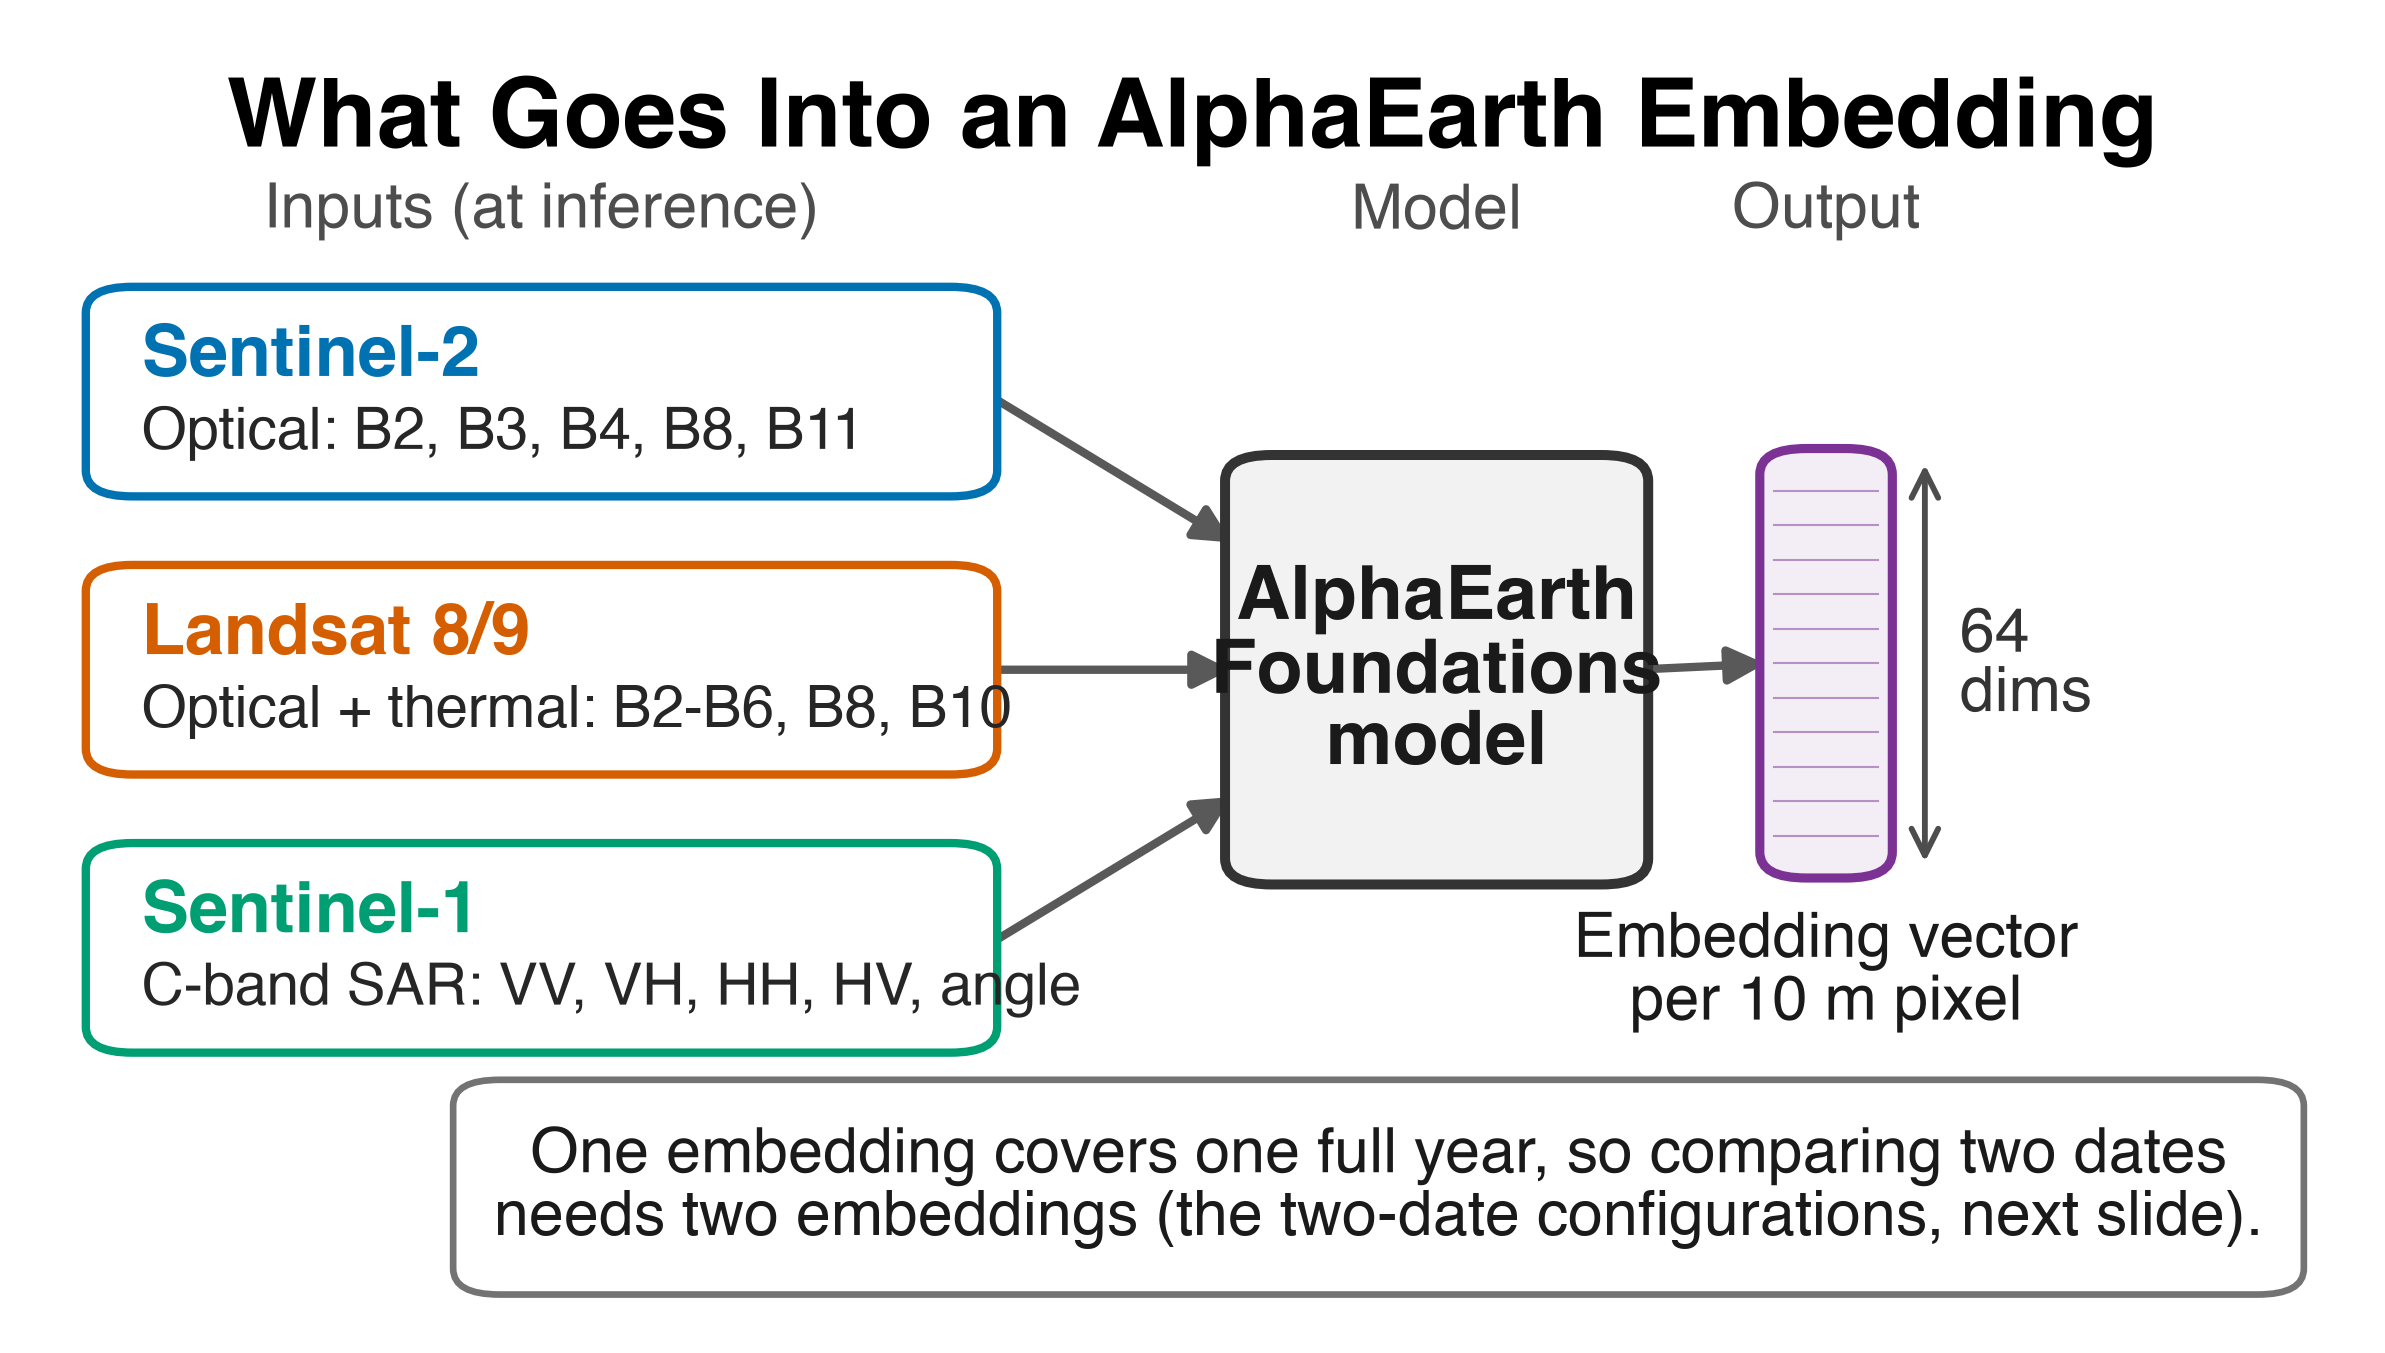
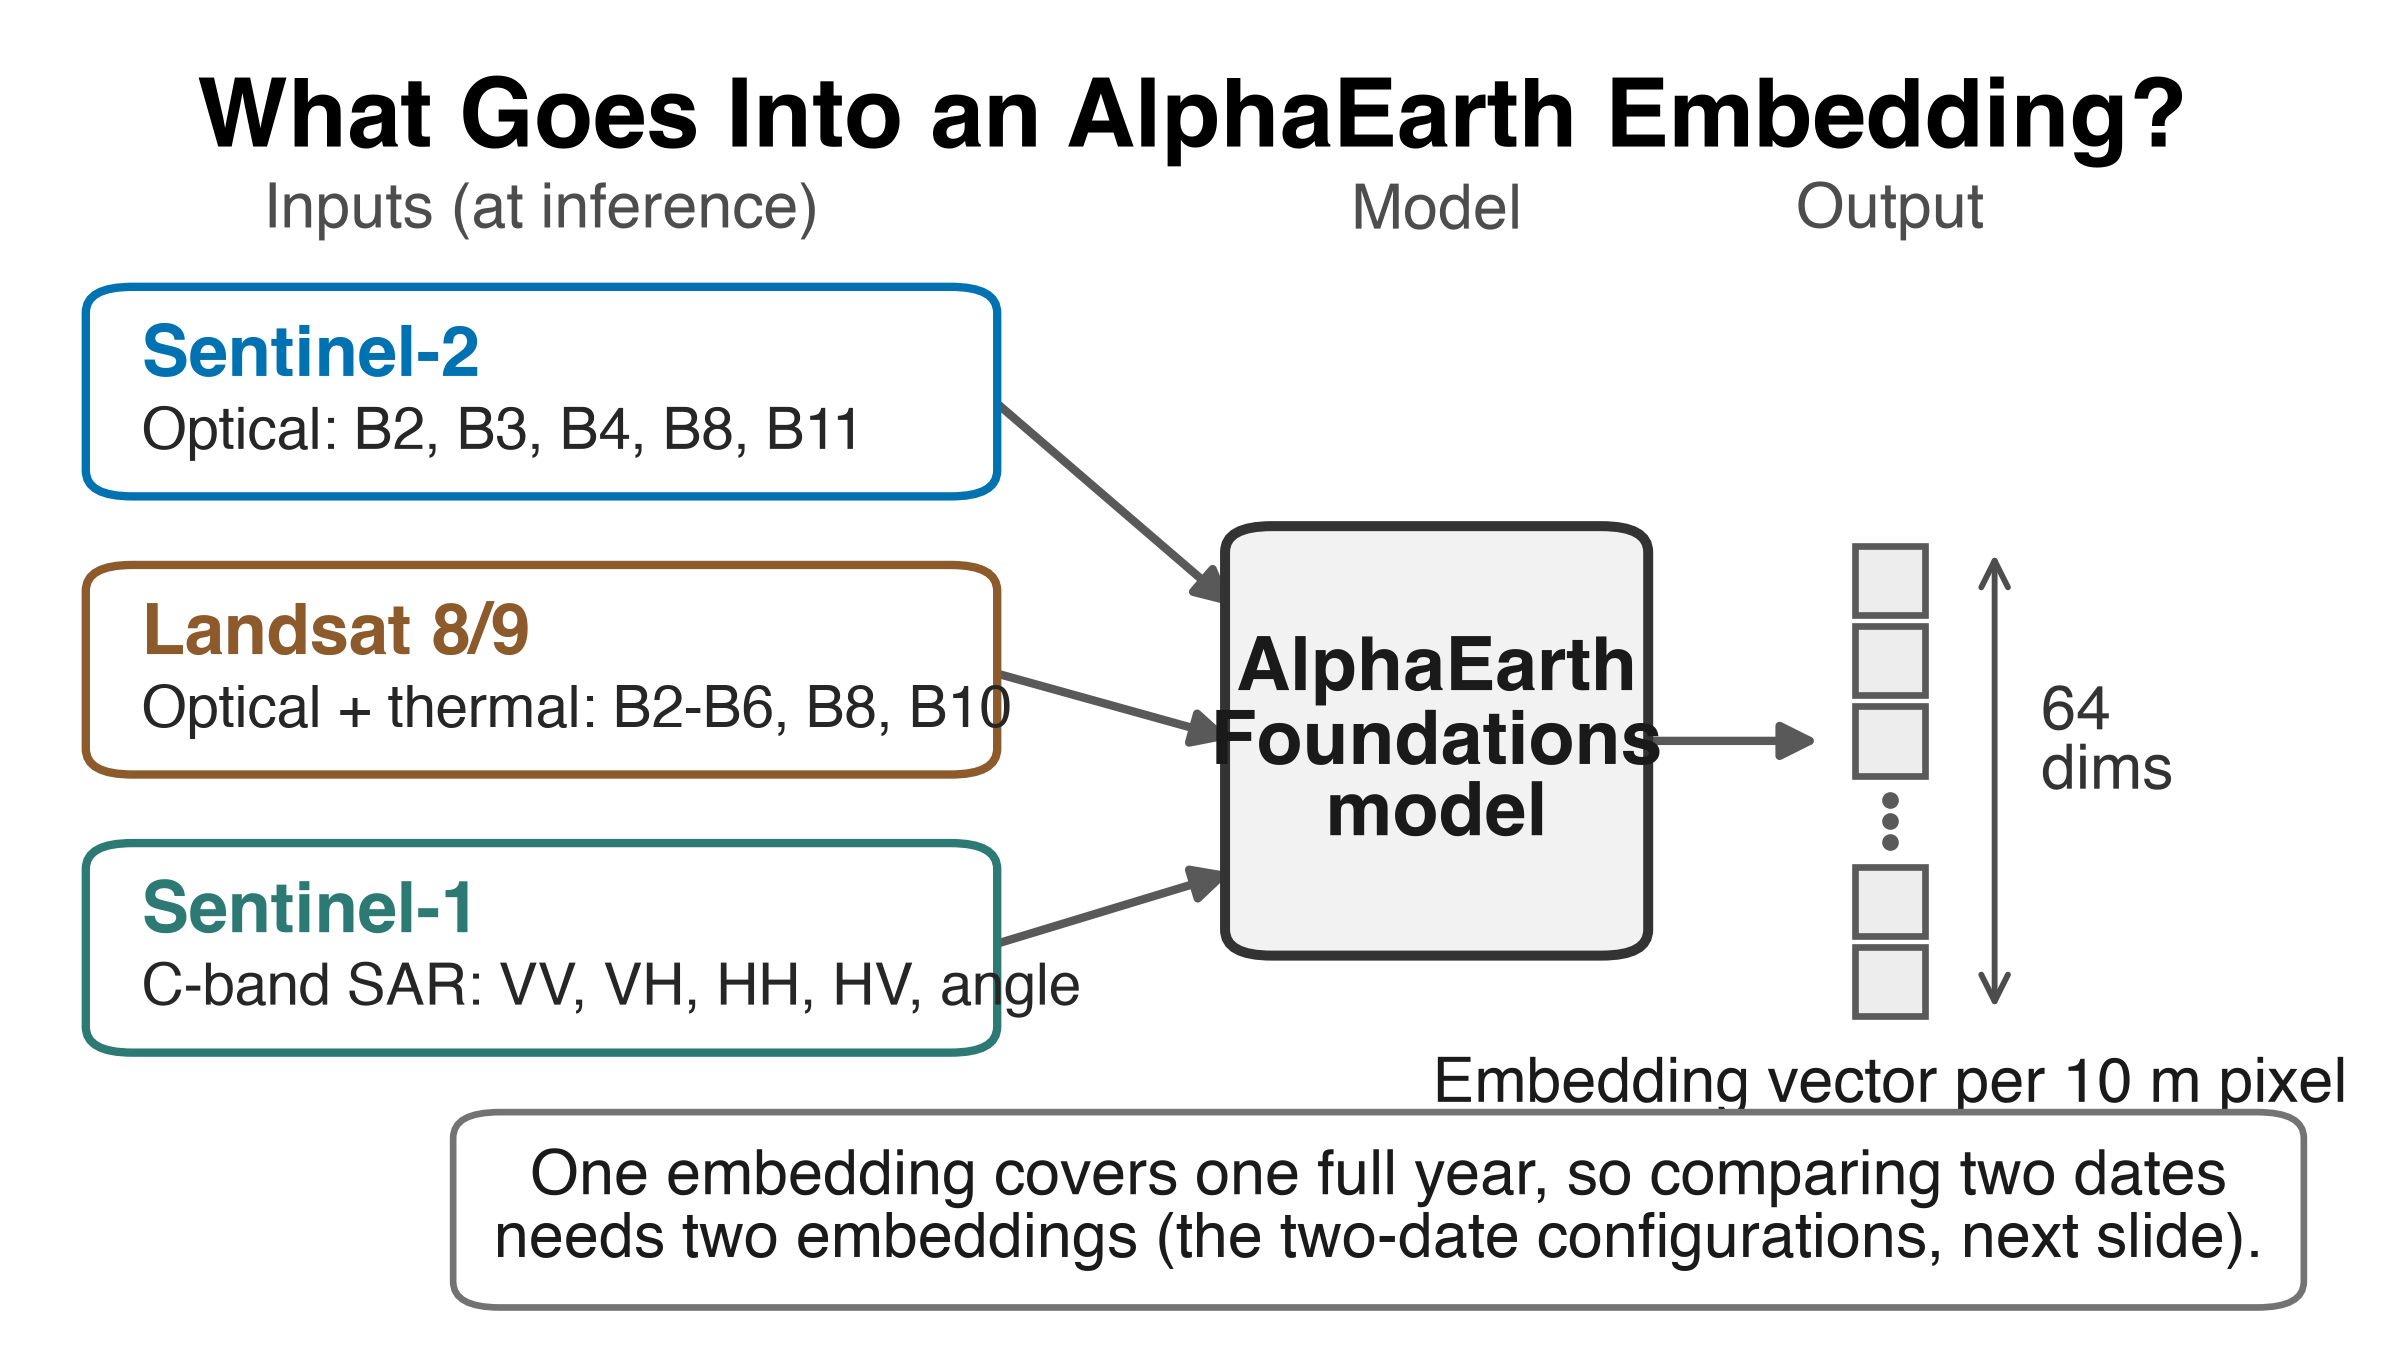
pres_03_aef_schematic: muted colors, stacked-square vector, lowered model/output
Mute the Landsat and Sentinel-1 box colors (keep the Sentinel-2 blue) and the
output color, add a question mark to the title, lower the model and output so
they sit closer to the lower input boxes, and replace the output column with
stacked squares (plus a vertical ellipsis) for the 64-D embedding vector.

diff --git a/presentation/scripts/pres_03_aef_schematic.py b/presentation/scripts/pres_03_aef_schematic.py
@@ -28,18 +28,21 @@ import os
 import matplotlib
 matplotlib.use("Agg")
 import matplotlib.pyplot as plt
-from matplotlib.patches import FancyBboxPatch, FancyArrowPatch
+from matplotlib.patches import FancyBboxPatch, FancyArrowPatch, Rectangle
 
 HERE = os.path.dirname(os.path.abspath(__file__))
 ROOT = os.path.dirname(os.path.dirname(HERE))
 OUT = os.path.join(ROOT, "presentation", "figures")
 
-# inference inputs, from Brown et al. 2025 Table S1 (rows tagged "input, target")
+# inference inputs, from Brown et al. 2025 Table S1 (rows tagged "input, target").
+# muted, colorblind-safe box colors (brown/teal from ColorBrewer BrBG); the top blue is kept
 INPUTS = [
     ("Sentinel-2", "Optical: B2, B3, B4, B8, B11", "#0072B2"),
-    ("Landsat 8/9", "Optical + thermal: B2-B6, B8, B10", "#D55E00"),
-    ("Sentinel-1", "C-band SAR: VV, VH, HH, HV, angle", "#009E73"),
+    ("Landsat 8/9", "Optical + thermal: B2-B6, B8, B10", "#8C5A2B"),
+    ("Sentinel-1", "C-band SAR: VV, VH, HH, HV, angle", "#2C7A73"),
 ]
+OUT_EDGE = "#5A5A5A"   # neutral grey for the output vector, muted rather than cartoonish
+OUT_FILL = "#EDEDED"
 # target-only sources from Table S1, excluded from the inputs (printed for the record)
 TARGET_ONLY = ["ALOS PALSAR (L-band SAR)", "Copernicus DEM", "GEDI (LiDAR)", "ERA5-Land (climate)",
                "GRACE (gravity)", "NLCD (land cover)", "Wikipedia (text)", "GBIF (text)"]
@@ -63,6 +66,30 @@ def _arrow(ax, x0, y0, x1, y1):
                                  lw=2.0, color="0.35", shrinkA=2, shrinkB=2, zorder=2))
 
 
+def _vector_stack(ax, cx, cy):
+    # stacked squares standing in for the 64-D embedding vector: three cells, a vertical
+    # ellipsis, then two cells, so it reads as a long vector without drawing all 64 cells.
+    # the axes span 10 x 5.6 in over 0..1, so square cells need a wider x than y extent.
+    # one cell sits at cy so the feed arrow points straight at a square
+    side = 0.30
+    w, h = side / 10.0, side / 5.6
+    s = 0.062
+    offsets = [2, 1, 0, -2, -3]        # gap at -1 holds the ellipsis
+    for off in offsets:
+        yc = cy + off * s
+        ax.add_patch(Rectangle((cx - w / 2, yc - h / 2), w, h, linewidth=1.6,
+                               edgecolor=OUT_EDGE, facecolor=OUT_FILL, zorder=4))
+    ey = cy - s
+    for dy in (-0.016, 0.0, 0.016):
+        ax.plot(cx, ey + dy, marker="o", ms=3, color=OUT_EDGE, zorder=4)
+    top = cy + 2 * s + h / 2
+    bot = cy - 3 * s - h / 2
+    ax.annotate("", xy=(cx + w / 2 + 0.03, top), xytext=(cx + w / 2 + 0.03, bot),
+                arrowprops=dict(arrowstyle="<->", color="0.3", lw=1.4))
+    ax.text(cx + w / 2 + 0.05, cy, "64\ndims", ha="left", va="center", fontsize=15, color="0.2")
+    return cx - w / 2, bot
+
+
 def main():
     # diagnostics before plotting
     print("AlphaEarth Foundations inference inputs (Brown et al. 2025, Table S1, 'input, target'):")
@@ -79,22 +106,23 @@ def main():
     ax.axis("off")
 
     # title inside the plot, title case, no subtitle
-    ax.text(0.5, 0.965, "What Goes Into an AlphaEarth Embedding", ha="center", va="top",
+    ax.text(0.5, 0.965, "What Goes Into an AlphaEarth Embedding?", ha="center", va="top",
             fontsize=23, fontweight="bold")
 
-    # geometry: input boxes on the left, model in the middle, output column on the right
+    # geometry: input boxes on the left, model in the middle, output vector on the right.
+    # the model and output sit below the input mid-line so they read closer to the lower boxes
     bx, bw, bh = 0.03, 0.38, 0.15
     y_centers = [0.72, 0.505, 0.29]
-    mx, mw, mh = 0.52, 0.17, 0.32
-    ox, ow, oy0, oy1 = 0.75, 0.045, 0.35, 0.67
+    mx, mw, mh, mc = 0.52, 0.17, 0.32, 0.45
+    ocx = 0.80
 
     # column headers
     ax.text(bx + bw / 2, 0.86, "Inputs (at inference)", ha="center", va="center", fontsize=15, color="0.3")
     ax.text(mx + mw / 2, 0.86, "Model", ha="center", va="center", fontsize=15, color="0.3")
-    ax.text(ox + ow / 2, 0.86, "Output", ha="center", va="center", fontsize=15, color="0.3")
+    ax.text(ocx, 0.86, "Output", ha="center", va="center", fontsize=15, color="0.3")
 
     # input boxes, arrows fan into the left edge of the model at matched heights so they miss the text
-    entry_y = [0.60, 0.505, 0.41]
+    entry_y = [mc + 0.10, mc, mc - 0.10]
     for (name, bands, color), yc, ey in zip(INPUTS, y_centers, entry_y):
         _box(ax, bx, yc - bh / 2, bw, bh, edge=color)
         ax.text(bx + 0.018, yc + 0.028, name, ha="left", va="center", fontsize=17,
@@ -103,30 +131,22 @@ def main():
         _arrow(ax, bx + bw, yc, mx, ey)
 
     # model box
-    _box(ax, mx, 0.505 - mh / 2, mw, mh, edge="0.2", lw=2.4, face="#f2f2f2")
-    ax.text(mx + mw / 2, 0.505, "AlphaEarth\nFoundations\nmodel", ha="center", va="center",
+    _box(ax, mx, mc - mh / 2, mw, mh, edge="0.2", lw=2.4, face="#f2f2f2")
+    ax.text(mx + mw / 2, mc, "AlphaEarth\nFoundations\nmodel", ha="center", va="center",
             fontsize=18, fontweight="bold", color="0.1")
-    _arrow(ax, mx + mw, 0.505, ox, (oy0 + oy1) / 2)
 
-    # output: a tall vector column subdivided to suggest components, with a 64 dimension marker
-    _box(ax, ox, oy0, ow, oy1 - oy0, edge="#7B3294", lw=2.2, face="#f3eef6")
-    n_ticks = 12
-    for k in range(1, n_ticks):
-        yy = oy0 + (oy1 - oy0) * k / n_ticks
-        ax.plot([ox, ox + ow], [yy, yy], color="#7B3294", lw=0.5, alpha=0.5, zorder=4)
-    ax.annotate("", xy=(ox + ow + 0.02, oy1), xytext=(ox + ow + 0.02, oy0),
-                arrowprops=dict(arrowstyle="<->", color="0.3", lw=1.4))
-    ax.text(ox + ow + 0.035, (oy0 + oy1) / 2, "64\ndims", ha="left", va="center", fontsize=15,
-            color="0.2")
-    ax.text(ox + ow / 2, oy0 - 0.03, "Embedding vector\nper 10 m pixel", ha="center", va="top",
+    # output: stacked squares for the 64-D embedding vector
+    left_edge, bot = _vector_stack(ax, ocx, mc)
+    _arrow(ax, mx + mw, mc, left_edge - 0.012, mc)
+    ax.text(ocx, bot - 0.03, "Embedding vector per 10 m pixel", ha="center", va="top",
             fontsize=15, color="0.1")
 
     # the annual-cadence annotation that motivates the two-date configurations next slide,
     # placed as a takeaway band across the open bottom, clear of the other elements
-    ax.add_patch(FancyBboxPatch((0.19, 0.03), 0.78, 0.15,
+    ax.add_patch(FancyBboxPatch((0.19, 0.02), 0.78, 0.135,
                                 boxstyle="round,pad=0.008,rounding_size=0.02",
                                 linewidth=1.6, edgecolor="0.45", facecolor="white", zorder=3))
-    ax.text(0.58, 0.105,
+    ax.text(0.58, 0.088,
             "One embedding covers one full year, so comparing two dates\n"
             "needs two embeddings (the two-date configurations, next slide).",
             ha="center", va="center", fontsize=15, color="0.1")
